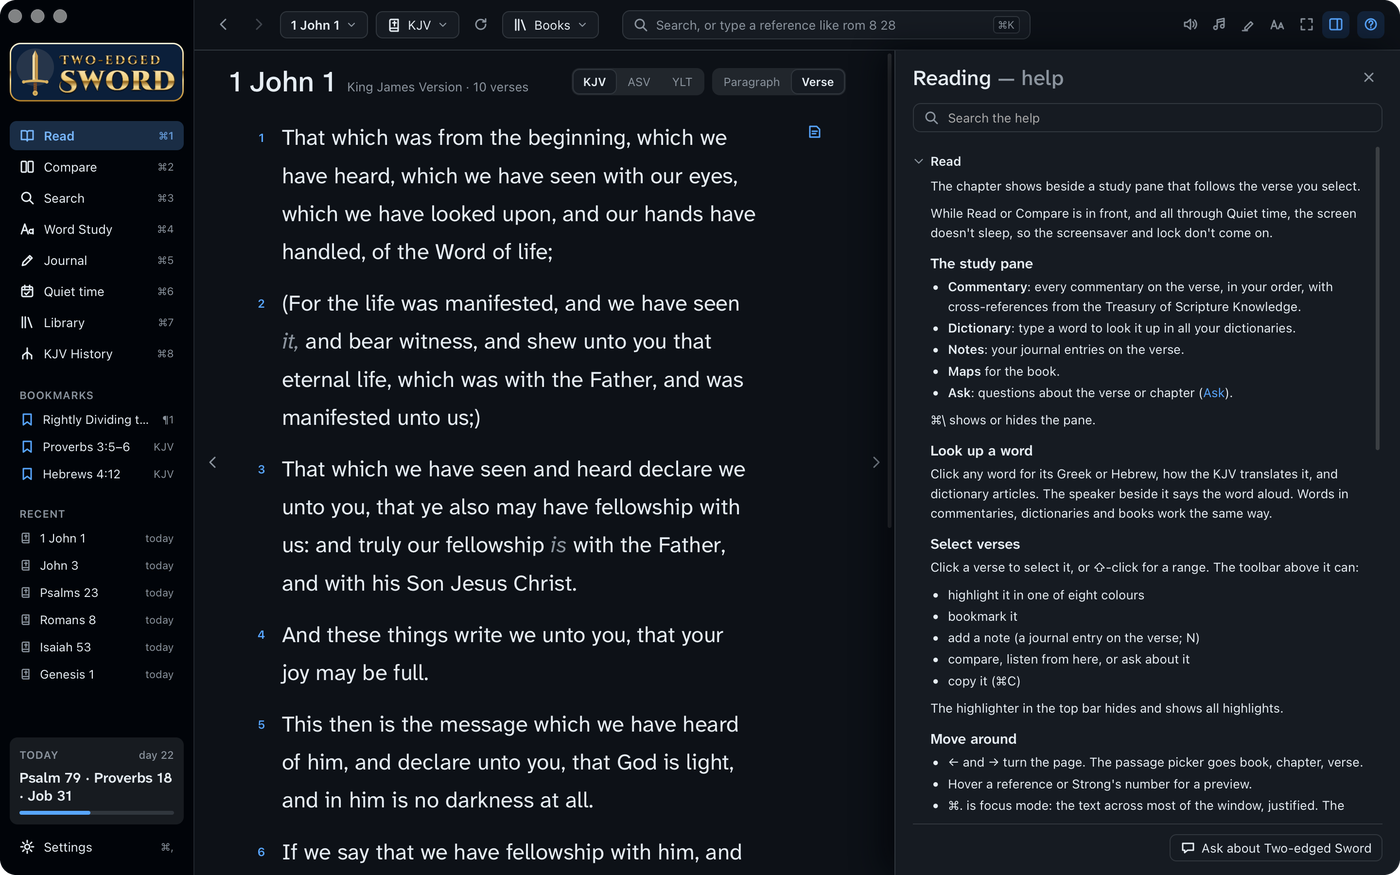
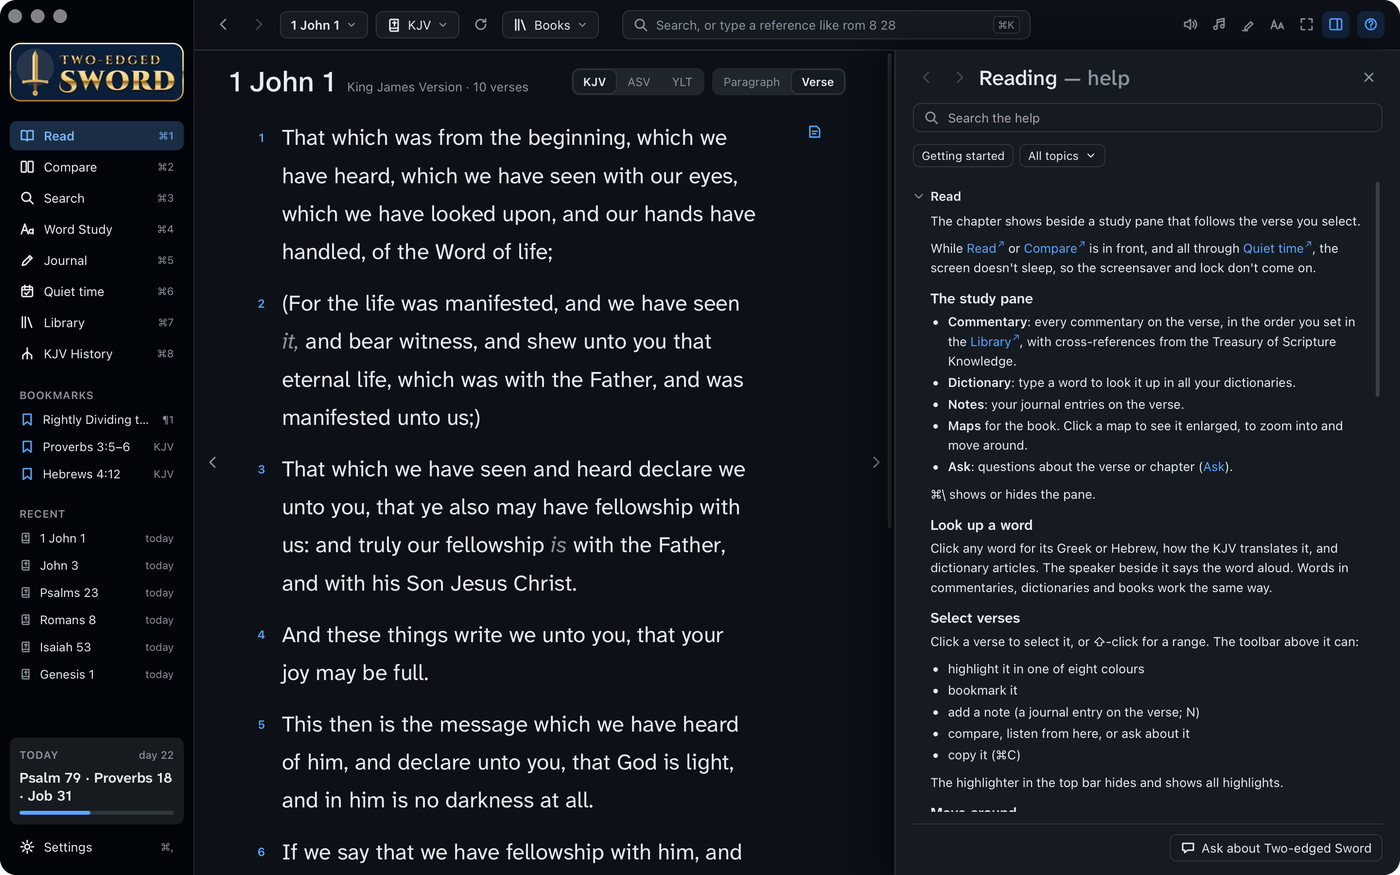
Development guide: Getting started's walk-throughs, the Mac and Windows parts of the guides, app: links and the places linked without markup, and writing for both platforms; the product page says Getting started walks you through the app; the help screenshot retaken

Changed region(s): [[0.645, 0.1543, 0.9829, 0.9257], [0.645, 0.0617, 0.7986, 0.1234], [0.9829, 0.4629, 1.0, 0.4937]]

diff --git a/site/index.html b/site/index.html
@@ -351,6 +351,7 @@
       <li>If Windows says it protected your PC, click More info, then Run anyway: the app isn't code-signed.</li>
       <li>Open Two-edged Sword from the Start menu.</li>
     </ol>
+    <p class="tagline">Once it's open, Getting started walks you through the app a step at a time, and the help (?) is beside every screen.</p>
   </div>
 </section>
 

diff --git a/docs/development.md b/docs/development.md
@@ -131,6 +131,22 @@ build time, drops their screenshots and breadcrumbs, and splits each into its `#
 `SCREEN_HELP` says which section each screen opens on. Links between guides stay in the drawer.
 `make help` (`tools/helpcheck.py`) checks every link and screen points at a heading that exists.
 
+- **Getting started** (`docs/getting-started.md`) is walk-throughs: each `##` a walk-through, each
+  `###` under it a step, shown one at a time with Back, Next and Done (`settings.guidesDone`). The
+  welcome dialog (`src/Welcome.tsx`) offers it when the app opens, until `settings.offerGuide` is off.
+- **Mac or Windows only**: a guide marks parts with `<!-- mac -->…<!-- /mac -->` and
+  `<!-- windows -->…<!-- /windows -->`; the help drops the other platform's (`forPlatform`). Words
+  that join the two for GitHub, which shows both, go in `<!-- github -->…<!-- /github -->`, which
+  the help never shows.
+- **Links into the app**: `[label](app:library)` opens a screen with the help still open, and
+  `app:library#commentaries` also scrolls to the element marked `data-help="commentaries"` and
+  flashes it (Settings marks each section with its title's slug). `app:open/john-3`, `app:palette`,
+  `app:modules` and `app:rescan` do what they say (`runAction` in `src/Help.tsx`). Such links carry
+  a ↗; plain links open more help. Mentions of a Settings section ("Settings › Listening"),
+  Settings, the Library, Quiet time, the Journal, Word Study and KJV History are linked without
+  markup (`PLACES` in `src/guides.ts`), except in bold, headings, links and code.
+- The drawer has its own back and forward, and one section open at a time.
+
 Ask gets the same guides: `src-tauri/src/help.rs` builds them into the app, and before each
 question writes them to `help/` in the chat's folder, where the assistant searches them when a
 question is about the app.
@@ -147,6 +163,10 @@ Keep them short:
 - Lists and tables rather than paragraphs; no edge cases, internals or history.
 - Developer detail goes here, not in the user guides, and the guides don't link here: the help
   hasn't this page, so `make help` stops on a link to it.
+- Write for both platforms, and mark what only one has (`<!-- mac -->`, `<!-- windows -->`, under
+  [Help](#help)). Name a place in the app plainly ("Settings › Bibles", "the Library") and the help
+  links it; use an `app:` link for a step's action ("[Open John 3](app:open/john-3)").
+- A new feature gets a step in its Getting started walk-through too.
 
 Run `make help` to check the result.
 
@@ -313,7 +333,8 @@ reference, and images inline as `data:` URLs.
 | `src-tauri/src/login_item.rs`, `login_launch.rs` | Open at Login |
 | `src-tauri/src/updates.rs`, `src/Update.tsx`, `tools/update_files.py` | Checking GitHub for a new release and installing it; the prompt for it in the main window; the release's signed update files |
 | `src-tauri/src/tts.rs` | Speech through AVSpeechSynthesizer (WebKit's speech API hides downloaded voices) |
-| `src/Help.tsx`, `src/guides.ts`, `src-tauri/src/help.rs`, `tools/helpcheck.py` | The help drawer, the guides it shows, and the Help menu |
+| `src/Help.tsx`, `src/guides.ts`, `src/Welcome.tsx`, `src-tauri/src/help.rs`, `tools/helpcheck.py` | The help drawer, the guides it shows, the Getting started offer, and the Help menu |
+| `src/ImageViewer.tsx` | A book's or a map's picture full screen, to zoom and pan |
 | `src-tauri/src/assistant/` | Running Claude Code, Codex, Antigravity or Copilot for Ask; `mod.rs` holds the streaming they share |
 | `src-tauri/src/process.rs` | Running a command with a time limit (Music, the login shell, the assistants' `--version`) |
 | `src-tauri/src/study.rs`, `books.rs` | Writing library material out as files for Ask to search |
